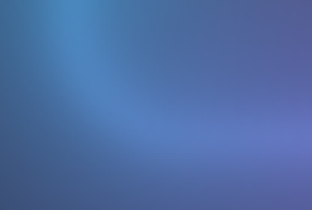
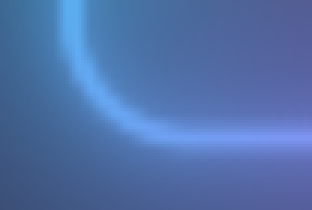
neon: shade the filament in every pass (revert I62)
filamentLit no longer reads uBlitOwnsCut, so pass 1b and its field bake
keep the line in the reduced buffer again. The reduced buffer becomes the
neon's shared buffer, which other renderers read without the edge ring,
so it has to hold the line. The blit still never reads those texels (the
ring re-shades every pixel within the filament's reach plus
RING_GUARD_TEXELS), so frames are byte-identical: the 306 cover frames and
all 210 page images match the build before. No measurable time:
geometric means 0.95-1.007 on arc-wipe, intensity and segment-travel
frames at 0.5 and 0.25 (AMD Radeon Pro 5300M).

I62 is marked reverted in review-findings, neon-frag-notes and the
glow-cover plan. The four guide figures that show intermediate buffers
(pass 1b's buffer, the field, its composite, the 0.25 blit-only view) have
the line again, re-rendered on the AMD.

Changed region(s): [[0.1731, 0.0, 1.0, 0.7143]]

diff --git a/docs/review-findings.md b/docs/review-findings.md
@@ -5077,6 +5077,13 @@ means 0.988-0.997, wall-clock), as expected of the review's 0.03-0.05 timer
 units. It stays because it is exact and removes work; narrowing the ring's
 guard would end it, which the shader says at the gate.
 
+**Reverted 2026-10-19** for the neon's shared buffer (`SharedBufferId::NEON`):
+the reduced buffer is read by other renderers without the edge ring, so pass
+1b and its field bake shade the filament again. Every final frame
+byte-identical against the build before (the `cover` set and all page
+images), no measurable time, and the four intermediate-buffer figures show the
+line again.
+
 ---
 
 ## Twenty-ninth pass (the arc wipe's tail on a sharp corner)
@@ -5459,7 +5466,7 @@ with the 2026-10-09 docs cleanup), I13 from the fourth, and I18 from the sixth:
 | I59 | changed | the glow coverage table was 1024 columns for every rect; its layout is now a parameter stored with the table and its width follows the rect and the halo width (256-1024, calibrated on 250 configs) - 0.25-0.69 MB for a default glow, 1024 still for a thin one on a large rect; within 2 levels, 99.998% within 1; 8 segments on the band 0.84x |
 | I60 | changed | the segments' bells were integrated at the arcs' resolution; they have a narrow table of their own (pass 0s, 4 columns per sigma from 128) copied into the main one by a fill pass (0f), `neon.frag` unchanged - within 2 levels, 99.992% within 1; 8 segments on the band 0.87 -> 0.56 ms (0.64x), 960 x 540 0.83x |
 | I61 | changed | each bell was integrated, and its moves tracked, out to 5 sigma; 4.24 now (`GLOW_COVER_BELL_REACH`), at most 1 level on up to 1.6% of lit pixels, segment-table bake 0.75 -> 0.58 timer units; the plan's 8-node rule was measured (3 levels) and not taken |
-| I62 | changed | pass 1b and its field bake computed the filament the edge ring always redraws; skipped there (`uBlitOwnsCut`), every final frame byte-identical, the intermediate-buffer figures without the line |
+| I62 | changed, then reverted | pass 1b and its field bake computed the filament the edge ring always redraws; skipped there (`uBlitOwnsCut`), every final frame byte-identical, the intermediate-buffer figures without the line. Reverted 2026-10-19: the reduced buffer is the neon's shared buffer and has to hold the line - frames byte-identical, figures with the line again |
 | V25 | fixed | the filament read one coverage at the fragment's nearest perimeter point, which jumps across a corner's diagonal, so an arc ending on a sharp corner (an arc wipe from 0) was cut along it on the inside half only; the filament is now a max over the outline's pieces, each at its own distance and its own nearest point - uniformly lit rings byte-identical, `check` unchanged |
 | V26 | fixed | every edge ramp (the one-sided cut, the cutoffs' floor, the blit's, the ring field's, the opaque fill's coverage) was sized by `fwidth(d)`, which reads 2 on a sharp corner's vertex pixel when the quad straddles both edges - that pixel came out at 0.84 (the fill's 0.75) on whichever corners the quad parity hit; `sdRoundBoxFwidth` takes the analytic gradient instead - corners agree within the dither, two-sided scenes byte-identical |
 | I63 | changed | the field bake (`neon.frag` + `NEON_FIELD_BAKE`) was sent `uGlowSideSoftness`, whose only reader follows the bake's return, so Tizen's compiler removed it and the upload logged "not found"; the bake is no longer sent it - frames byte-identical, the other neon programs audited for the same |

diff --git a/docs/neon-glow-cover-resolution-plan.md b/docs/neon-glow-cover-resolution-plan.md
@@ -665,7 +665,7 @@ were kept apart in scratch trees so each could be measured alone.
 | 2 | `GetGlowCoverWidth`, hysteresis of two steps | constants 0.8 / **1.6** / **5.0** (plan 0.8 / 1.0 / 4.0), from a 250-config sweep | max 2, 99.998% within 1 | pass; only the table's figure changes |
 | 3 | segment table (P0s), fill (P0f), `glowCoverTexel`, direct mode | **4** columns per sigma (plan 5); a 1.2x margin on leaving direct mode | max 2, 99.992% within 1 | pass; table figures only, new P0s figure |
 | 4 | `GLOW_COVER_BELL_REACH` 3 / invSigma, bake and mirror | **no 8-node rule**: alone 3 levels / 99.23%, with the support 2 / 99.57% - both fail | max 1 (1.6% of lit px at most) | pass |
-| D4 | pass 1b skips the filament (I62) | - | byte-identical | pass; four intermediate-buffer figures lose the line, captions updated |
+| D4 | pass 1b skips the filament (I62) | - | byte-identical | pass; four intermediate-buffer figures lose the line, captions updated. Reverted 2026-10-19 for the neon's shared buffer |
 
 Frame cost at 0.5, band and 960 x 540 rect, every light changing length every
 frame. GPU timer units first (comparable with section 6's estimates), then

diff --git a/docs/neon-frag-notes.md b/docs/neon-frag-notes.md
@@ -738,6 +738,16 @@ and every final-frame figure; the four figures of intermediate buffers lose
 the line. No measurable time on the AMD (0.988-0.997). Narrow the ring's guard
 below a texel and this stops holding.
 
+**Reverted for the shared buffer** (2026-10-19): `filamentLit` is again
+`core > 0.0 && lineGate > 0.0` in every pass. The reduced buffer became the
+neon's shared buffer (`SharedBufferId::NEON`), which other renderers read
+without the edge ring, so it has to hold the line. Byte-identical against the
+build before it on the `cover` set (306 frames) and all 210 page images; the
+four figures of intermediate buffers have the line again. No measurable time
+(geometric means 0.95-1.007 on arc-wipe, intensity and segment-travel frames at
+0.5 and 0.25, AMD). The ring's guard no longer carries this: the blit would
+read correct texels at any ring width.
+
 (The milliseconds above are `GL_TIME_ELAPSED` readings, which on this GPU are
 ~3.85x the wall-clock time - ratios, not costs.)
 
